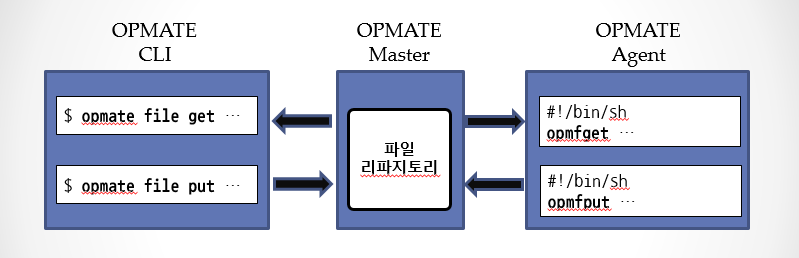
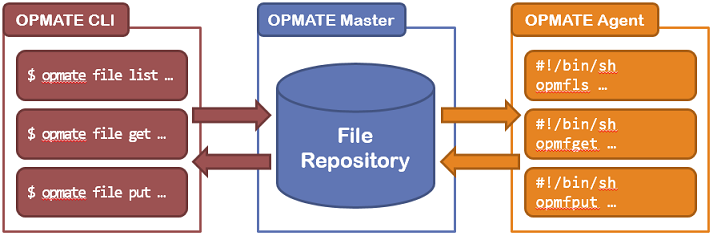
파일

diff --git a/document/v1.1/UserManual8.md b/document/v1.1/UserManual8.md
@@ -7,63 +7,83 @@ description: 8. 파일 배포/수집
 
 ## 파일 배포/수집
 
+OPMATE 에서는 사용자가 태스크를 구성하고, 수행하는데에 필요한 파일과 관련한 유틸리티를 제공하고 있다.
+
+특정 노드로 설치나 설정에 필요한 파일을 배포하거나, 반대로 태스크 수행으로써 생성된 파일 형태의 결과물을 수집하는데에 이용할 수 있다.
+
+아래의 그림에서는 OPMATE 의 **CLI/Master/Agent** 상호 간의 **파일의 배포/수집**과 관련한 관계를 보여준다.
+
 ![OPMATE_Summary](../../img/opmate-file-summary.png)
 
-마스터 서버가 아닌, 노드 입장에서 마스터 파일 Repository에 업로드하거나, 다운로드하는 방식이다.
+그림과 같이 파일은 OPMATE Master 의 File Repository 와의 상호 작용으로 취급할 수 있으며, 배포/수집의 주체는 Master가 아닌 CLI 와 Agent가 설치된 노드 이다.
 
-Repository에 저장된 파일은 일정 기간 후 자동으로 삭제된다.
-즉, 보관의 용도가 아닌, 대량의 파일 수집과 배포를 위한 임시 공간 용도로 사용한다.
+>**CLI** 명령어 또는 **Agent**가 태스크를 수행할 때에 스크립트에 기술된 명령을 통해, **Master의 File Repository**를 **조회하거나 파일을 업로드/다운로드** 할 수 있다.
 
-## 보안성 강화 조치 적용
+여기서 주의할 점은 File Repository는 자료의 영구적인 보관 공간이 아닌 임시 보관 공간이라는 점이다.
 
-opmfile 유틸리티(opmfget, opmfput, opmfls) 사용 시, 토큰 방식을 통해 태스크 스크립트 외에서 실행 가능한 취약점을 강화한다.
-Task 만들 때 토큰 설정을 해주고 해당 Task를 수행하면 Agent 가 받아 유효한 토큰으로 변경하고 실행한다.
+File Repository 의 데이터는 일정 기간이 경과하면 자동 삭제되므로, 태스크에서 대량 파일의 수집과 배포를 수행하기 위한 한시적인 공간이라는 것을 유의하기 바란다.
 
-사용자는 Task에서 opmfile 유틸리티를 쓸 때 아래와 같은 내용을 추가한다.
+### 태스크에서의 사용
 
-> #!/bin/sh
-> 
-> token="@OPM_ATTR.FILE_TOKEN@"
-> 
-> opmfget **$token** master:/mydir/patch.tar.gz
+태스크에 정의된 스크립트에서는 아래의 세가지 OPMATE 파일 유틸리티의 사용이 가능하다.
 
-그러면, Task 실행 전 에이전트가 스크립트를 전처리하여 치환하고, 그 토큰은 **태스크가 실행 중인 시간에만 유효**하도록 적용된다.
+>**opmfls** : File Repository 의 파일 조회<br>
+>Usage : opmfls <token> <master:/master-directory-path> [glob]
 
+>**opmfput** : File Repository 로의 파일 업로드<br>
+Usage : opmfput [--overwrite] <token> <master:/master-file-path> <local-file-path>
 
-### 파일 배포
+>**opmfget** : File Repository 에서 파일 다운로드<br>
+Usage : opmfget [--overwrite] <token> <master:/master-file-path> [local-file-path]
 
-마스터 서버의 파일을 노드에 배포할 경우에 사용한다.
+파일 조회는 사용자가 지정한 원격 경로(File Repository)에 존재하는 파일의 목록을 보여주며, 이 때 하위 디렉토리 및 그에 속한 파일은 조회할 수 없다. *(서버 보안 유지)*<br>
+조회대상 파일명에는 glob 패턴을 사용할 수 있다.(glob : 와일드카드 문자로 여러 파일 이름의 집합을 지정. Unix 계열 환경에서 사용되는 것과 동일함.)
 
-다음 예제는, 마스터 서버 Repository 의 /mydir/install-tomcat-1.0.tar.gz 파일을 받아와
-노드의 /home/was/install-tomcat-1.0.tar.gz 에 저장하는 명령이다.
+파일의 업로드와 다운로드는 개별 파일에 대해서 원격 경로(File Repository)와 로컬 경로를 지정하여 사용할 수 있다.(다건 전송 불가)
 
-```
-          ☞토큰 ☞ 마스터서버의 가상 절대 경로       ☞ 로컬서버의 절대 경로
-$ opmfget $token master:/mydir/install-apache.tar.gz /home/web/install-apache.tar.gz
-```
+원격의 경로를 지정할 때에는 File Repository 의 루트 디렉토리*(OS의 루트 디렉토리가 아님)*로 부터의 절대 경로로 표현한다.
 
-### 파일 수집
+태스크에서 파일 유틸리티를 사용할 때에는 토큰(token)이라는 개념을 사용하며, 파일 유틸리티 사용 시에는 다음과 같은 OPMATE 의 예약어를 사용하여 전달해야 한다.
 
-노드의 파일을 마스터 서버로 수집할 경우에 사용한다.
+>**@OPM_ATTR.FILE_TOKEN@**
 
-다음 예제는, 노드의 /home/web/apache/conf/server.cfg 파일을
-마스터 서버 Repository의 /mydir/node1/server.cfg 에 저장하는 명령이다.
+위와 같이 스크립트에서 사용하면, 에이전트는 태스크 수행 직전에 해당 예약어를 치환하고 수행하게 된다.
+***태스크의 스크립트를 에이전트가 수행할 때에만 파일 유틸리티 사용이 가능***하다.
+
+아래는 스크립트에서 파일 유틸리티를 사용하는 예를 보여준다. 위의 opmfget 사용법과 비교하여 보기를 바란다.
 
 ```
-          ☞토큰 ☞ 마스터서버의 가상 절대 경로  ☞ 로컬서버의 절대 경로
-$ opmfput $token master:/mydir/node1/server.cfg /home/web/apache/server.cfg
+#!/bin/sh
+
+token="@OPM_ATTR.FILE_TOKEN@"
+
+opmfget **$token** master:/mydir/install-apache.tar.gz /home/web/install-apache.tar.gz
 ```
 
-### 파일 조회
+어떠한 태스크에서는 태스크에 지정된 스크립트에서 별도의 백그라운드 프로세스를 호출하여, 태스크 종료 후에도 태스크와 관련된 수행이 지속될 수 있다.
+토큰은 태스크 실행 중에만 유효하므로 아래와 같은 형식으로 지정하면 태스크가 종료되어도 해당 태스크에서 호출된 백그라운드 프로세스에서도 파일 유틸리티의 사용이 가능하다.
 
-작업자가 마스터 서버로 수집한 파일을 찾고자 할 때 사용한다.
+>**@OPM_ATTR.FILE_TOKEN@/10M** : 토큰의 유효 시간을 태스크 종료와 상관 없이 10분으로 지정<br>
+>**@OPM_ATTR.FILE_TOKEN@/10H** : 토큰의 유효 시간을 태스크 종료와 상관 없이 10시간으로 지정<br>
+>☞ 최대 24시간까지 지정 가능
 
-다음 예제는, 마스터 서버 Repository 의 /mydir/node1/server.cfg 파일이 있는지 확인하는 명령이다.
+### CLI에서의 사용
 
-```
-         ☞토큰  ☞ 마스터서버의 가상 절대 경로
-$ opmfls $token master:/mydir/node1/server.cfg
-```
+CLI 의 사용법과 관련한 내용은 매뉴얼의 "[별첨 #1. CLI 사용법](UserManual9.md)" 에서 소개하고 있으며 **CLI 의 help 명령어**를 통해서 확인 가능하다.
+여기서는 관련된 주요 개념과 태스크에서 사용하는 파일 유틸리티와의 차이점을 위주로 언급한다.
 
+CLI 에서는 제공되는 다른 CLI 명령어들과 유사하게 사용할 수 있으며, 다음과 같은 세 가지 명령을 사용할 수 있다.
+
+>**opmate file list** : File Repository 의 파일 조회<br>
+>**opmate file put** : File Repository 로의 파일 업로드<br>
+>**opmate file get** : File Repository 에서 파일 다운로드
+
+파일 조회는 태스크의 파일 유틸리티와 동일하게 사용자가 지정한 원격 경로(File Repository)에 존재하는 파일의 목록을 보여주며, 이 때 하위 디렉토리 및 그에 속한 파일은 조회할 수 없다.<br>
+파일의 업로드와 다운로드도 태스크의 파일 유틸리티와 유사한 기능이나, 전송의 주체는 Agent가 아닌 CLI 이다.
+
+CLI에서는 위의 명령어들을 통해서 태스크를 통해 노드로 배포할 파일을 File Repository에 업로드하거나, 태스크 수행의 결과로서 File Repository에 수집된 파일들을 다운로드하여 확인할 수 있다.<br>
+여러 노드에 파일을 배포하기 위해서는 사용자가 업로드한 File Repository 경로와 파일명을 태스크의 스크립트에도 정확히 기술해줘야 하며, 파일을 수집할 때에도 이는 마찬가지이다.
+
+태스크의 파일 유틸리티 사용과는 달리 token 은 존재하지 않으니, 앞서 설명한 바와 같이 File Repository는 임시 공간이라는 점만 유의하여 사용하면 된다.
 
 [목차](UserManual.md) / [이전페이지](UserManual7.md) / [다음페이지](UserManual9.md)
